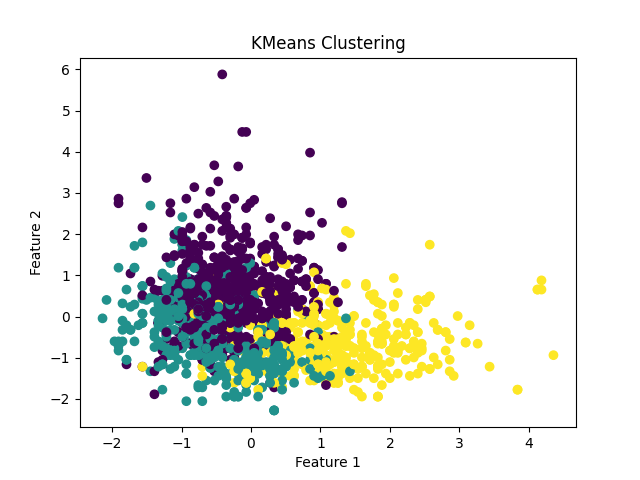
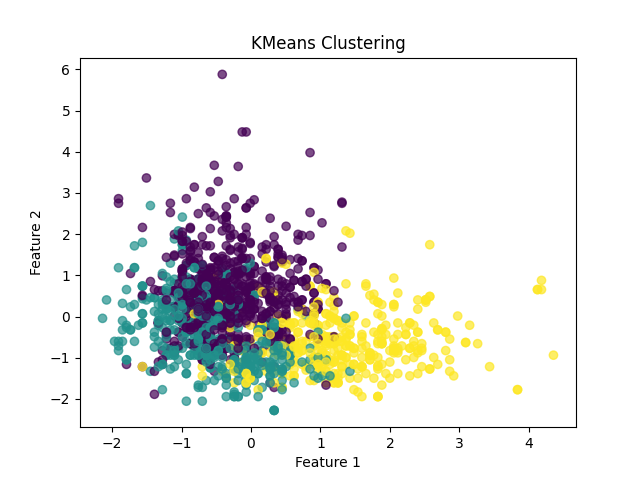
add methods

diff --git a/data_analysis_classification_clustering.py b/data_analysis_classification_clustering.py
@@ -11,15 +11,16 @@ file_path = './dataset/winequality-red.csv'  # Replace with your CSV file path
 data = pd.read_csv(file_path, sep=";")
 
 # Step 2: Data Preprocessing
-# Assuming that the dataset has numerical values and no categorical columns that need encoding
-X = data.values  # Extract the feature values (assuming no target column)
+# Extract features, assuming no categorical data or target column
+X = data.values
 
-# Normalize features for clustering
+# Normalize features
 scaler = StandardScaler()
 X_scaled = scaler.fit_transform(X)
 
 # Step 3: Apply KMeans Clustering
-kmeans = KMeans(n_clusters=3, random_state=42)  # You can adjust n_clusters based on your dataset
+n_clusters = 3  # You can modify this value
+kmeans = KMeans(n_clusters=n_clusters, random_state=42)
 kmeans_labels = kmeans.fit_predict(X_scaled)
 
 # Step 4: Evaluate Clustering
@@ -39,7 +40,7 @@ def evaluate_clustering(data, labels, method_name):
 evaluate_clustering(X_scaled, kmeans_labels, "KMeans")
 
 # Step 5: Visualize KMeans Clustering
-plt.scatter(X_scaled[:, 0], X_scaled[:, 1], c=kmeans_labels, cmap='viridis')
+plt.scatter(X_scaled[:, 0], X_scaled[:, 1], c=kmeans_labels, cmap='viridis', alpha=0.7)
 plt.title("KMeans Clustering")
 plt.xlabel("Feature 1")
 plt.ylabel("Feature 2")
